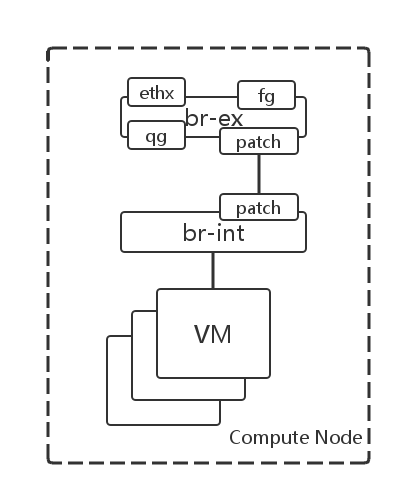
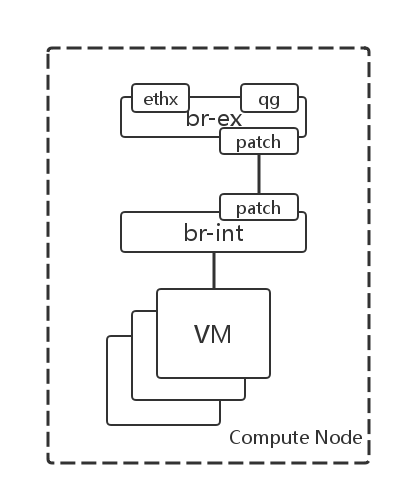
Fix errors in some pics and add API about fip qos

diff --git a/src/funcs/fip_qos.md b/src/funcs/fip_qos.md
@@ -17,6 +17,21 @@ ovs-vsctl set interface tap0 ingress_policing_burst=100
 默认的，对于新创建的 FloatingIP 限速是 1024 Kb (1Mbit)，对于虚拟路由器的 1:SNAT 来说，
 默认限速是 5Mb，即：虚拟路由器 SNAT 流量的共享带宽是 5Mb（目前无法通过 API 修改）。
 
+实现该功能的 Neutron 软件包版本：
+
+ - python-neutron-7.1.1.1-2.el7.centos.ustack.noarch
+ - openstack-neutron-7.1.1.1-2.el7.centos.ustack.noarch
+
+配置选项：
+
+ - 置 `neutron.conf` 中的 `enable_fip_qos` 选项为 `True`。即：打开 FloatingIP QoS 功能。
+ - 置 `l3_agent.conf` 中的 `default_router_gw_rate_limit` 选项为 5 (若无特殊需要，无需修改，该选项默认值即为 5)。即：路由器开启公网网关的共享带宽为 5Mb。
+
+升级影响：
+
+ 对于使用过 7.1.1.1 之前版本的 Neutron 来说，升级到 7.1.1.1 版本后，不影响之前的 FloatingIP 使用（无限速），
+对于所有的 FloatingIP 都可通过 API 调整 FloatingIP 的 QoS。
+
 #### 实现原理
 
 通过 Linux TC (Traffic Control) 实现针对 FloatingIP 的 QoS。
@@ -72,6 +87,34 @@ FloatingIP 的 QoS 目前支持通过 Neutron-client 形式修改带宽，命令
 ```
 [root@server-233 ~(keystone_admin)]# neutron update-floatingip-ratelimit eb0fa229-9b42-4db3-8789-d2d94ed57fbb 20480
 Update floating IP eb0fa229-9b42-4db3-8789-d2d94ed57fbb rate limit 20480
+```
+
+通过 Curl 的形式修改带宽：
+
+REQ:
+```
+curl -g -i -X PUT \
+http://10.0.44.233:9696/v2.0/floatingips/eb0fa229-9b42-4db3-8789-d2d94ed57fbb/update_floatingip_ratelimit.json \
+-H "User-Agent: python-neutronclient" \
+-H "Content-Type: application/json" \
+-H "Accept: application/json" \
+-H "X-Auth-Token: {SHA1}28aacfc5724b41b6d3ef84728fc5655de778a26a" \
+-d '{"floatingip": {"rate_limit": 20480}}'
+```
+
+RESP BODY: 
+```
+{
+    "floating_network_id": "8a93ea75-87cd-4677-ba02-8c5989ad0843",
+    "router_id": "8db51fa5-22c7-4944-a4c5-de99e62ad58f",
+    "fixed_ip_address": "10.10.10.22",
+    "floating_ip_address": "2.2.2.94",
+    "tenant_id": "ef979882f1954a0fa4ce7daf244aa557",
+    "status": "ACTIVE",
+    "port_id": "06e18bdb-c35d-4914-9e4a-f763231484d6",
+    "id": "eb0fa229-9b42-4db3-8789-d2d94ed57fbb",
+    "rate_limit": 20480
+}
 ```
 
 #### 测试过程和结论

diff --git a/src/deployment/neutron_conf/neutron_server.md b/src/deployment/neutron_conf/neutron_server.md
@@ -22,7 +22,7 @@
 `my_vm.ustack.com`。
 4. `dhcp_lease_duration`。虚拟机 DHCP 的续约时间，默认是 86400s，即一天。
 5. `allow_pagination=True` 和 `allow_sorting=True` 。允许通过 API 获取 Neutron 资源时可以分页或者排序。
-6. `max_fixed_ips_per_port = 20`。一个虚拟网卡上最多可以配置多少个 IP 地址。
+6. `max_fixed_ips_per_port = 20`。一个虚拟网卡上最多可以配置 20 个 IP 地址。
 7. `api_workers = 8` 。Neutron Server 启动 8 个进程完成 API 的响应。
 8. `rpc_workers=8` 。Neutron Server 启动 8 个进程完成 RPC 的响应。
 9. `max_header= 81920`。Openstack Keystone 的 PKI token 从 G 版本开始支持，PKI token 相比如传统的 UUID 的 token，
@@ -31,6 +31,7 @@
 过长引发 bug 可参考：[Token auth fails when token is larger than 8k](https://bugs.launchpad.net/keystone/+bug/1190149)
 10. `max_pool_size=30`。允许建立的最大 SQL 连接数。
 11. `max_overflow=40`。允许在 max_pool_size 上在超过 40 个 SQL 连接。
+12. `enable_fip_qos=True`。开启 FloatingIP 的 QoS。该选项默认关闭。该功能由 UnitedStack 网络组自研。
 
 #### neutron.conf
 ```
